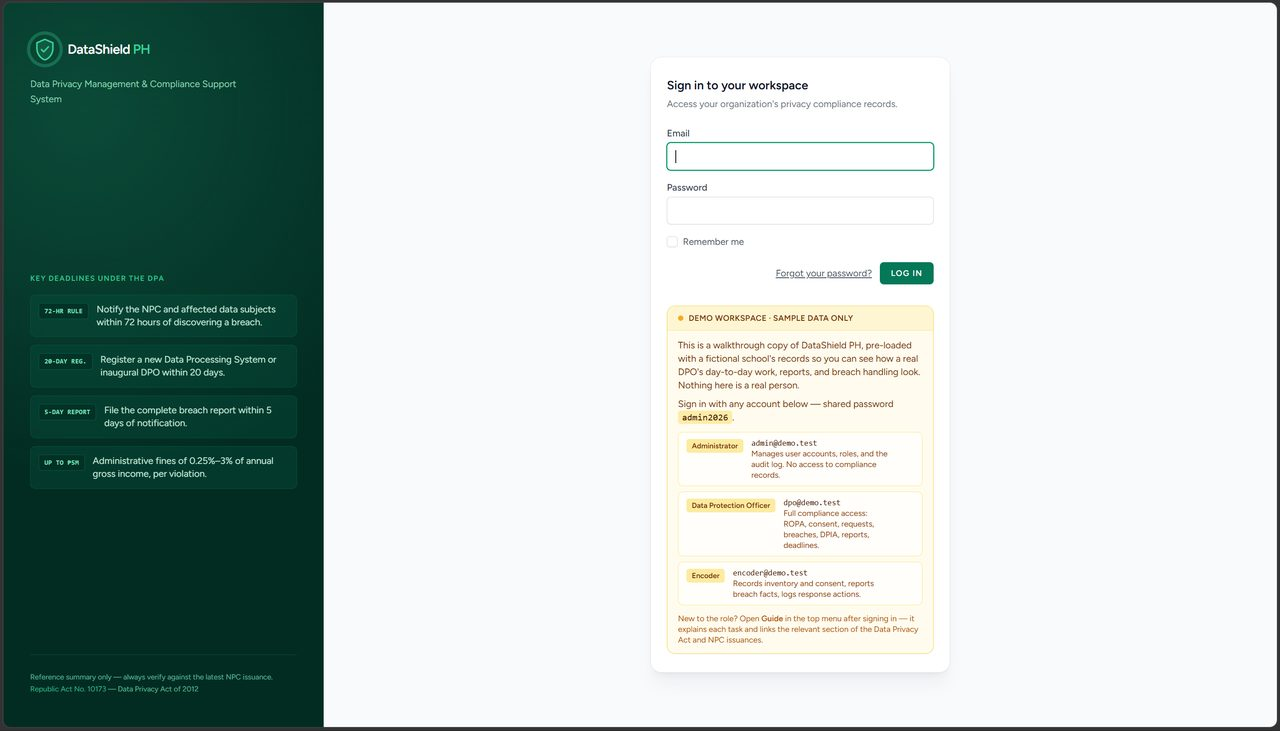
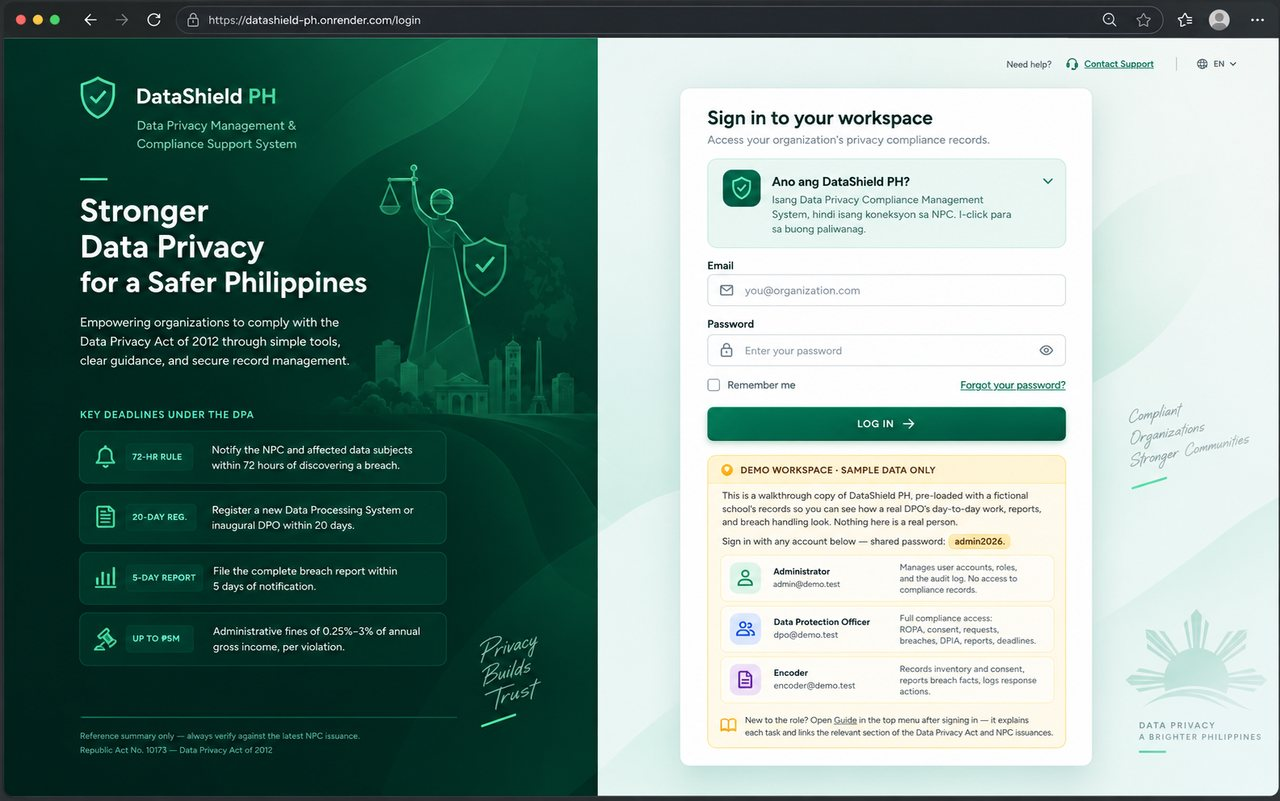
Replace DataShield PH screenshot with branded landing/login view
Swap the raw login-page capture for a two-panel shot (landing pitch +
login form) that matches the polish of the other two project cards.

diff --git a/index.html b/index.html
@@ -275,7 +275,7 @@
         <a class="project-shot" href="https://datashield-ph.onrender.com/login" target="_blank" rel="noopener" tabindex="-1" aria-hidden="true">
           <picture>
             <source srcset="images/projects/datashield.webp" type="image/webp">
-            <img src="images/projects/datashield.jpg" alt="" loading="lazy" width="1280" height="731">
+            <img src="images/projects/datashield.jpg" alt="" loading="lazy" width="1280" height="801">
           </picture>
         </a>
         <div class="project-body">
